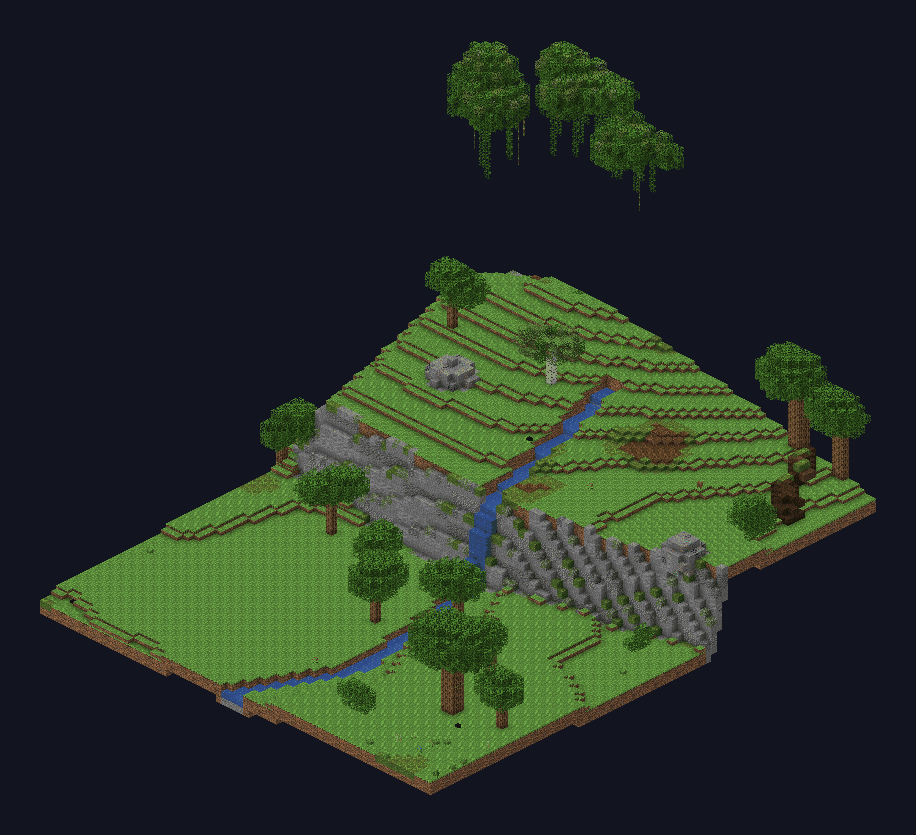
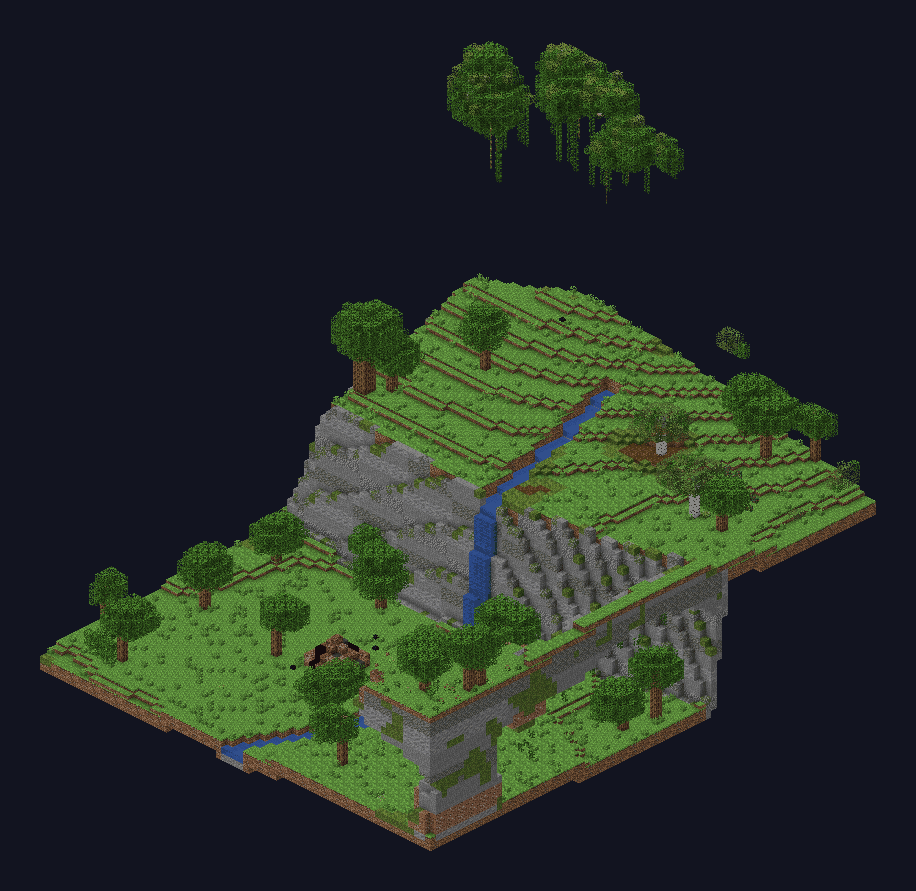
Proposals: field500 - Gaur Plain style rock pillars and natural bridges, taller scarps

Changed region(s): [[0.0306, 0.3114, 0.9782, 0.9653], [0.4891, 0.0311, 0.7642, 0.218]]

diff --git a/scripts/world_prototype/field500.py b/scripts/world_prototype/field500.py
@@ -58,7 +58,7 @@ POND = (105, 428)
 CLIFF_X = 455
 BOULDERS = (282, 428)
 MEADOW = (330, 258)
-LOW, MID, HIGH = 64, 74, 85
+LOW, MID, HIGH = 64, 75, 94
 
 # ---------------- terrain ----------------
 xs_ = np.arange(B, dtype=np.float32)
@@ -614,6 +614,122 @@ for x in range(B):
             if road[z, x] and road_d[z, x] > 2.4: put(x, at(x, z) + 1, z, "spruce_planks", shape="fence")
 
 
+# ---------------- Gaur-style rock pillars: narrow waists, wide overhanging grassy tops, joined by rock bridges ----------------
+UPPER = np.full((B, B), -1, np.int32)          # walkable heights above the ground layer (pillar tops, bridges)
+ROCK = ["stone", "andesite", "tuff", "stone", "andesite", "granite", "stone", "tuff"]
+
+
+def mesa(cx, cz, top_y, rb, rt, seed, needle=False):
+    base = min(at(cx + dx, cz + dz) for dx in (-int(rb), 0, int(rb)) for dz in (-int(rb), 0, int(rb))) - 2
+    Hm = top_y - base
+    for y in range(base, top_y + 1):
+        f = (y - base) / Hm
+        if f < .45: r = rb + (.6 * rb - rb) * (f / .45)
+        elif f < .82: r = .6 * rb + (rt - .6 * rb) * ((f - .45) / .37) ** 1.7
+        else: r = rt * (1 - max(0, f - .97) * 3)
+        ri = int(r * 1.25) + 2
+        for dx in range(-ri, ri + 1):
+            for dz in range(-ri, ri + 1):
+                a = math.atan2(dz, dx)
+                rr = r * (1 + .22 * (noise3(math.cos(a) * 3 + seed, y * .25, math.sin(a) * 3, seed, 1.0) - .5) * 2)
+                d = math.hypot(dx, dz)
+                if d > rr: continue
+                x, z = cx + dx, cz + dz
+                if not (0 <= x < B and 0 <= z < B) or y <= at(x, z) - 1: continue
+                if needle:
+                    put(x, y, z, "moss_block" if y >= top_y - 1 else ROCK[(y // 3 + seed) % len(ROCK)])
+                elif y == top_y:
+                    put(x, y, z, "grass_block_top", "grass_block_side"); UPPER[z, x] = top_y
+                elif y >= top_y - 2 and d > rr - 1.2:
+                    put(x, y, z, "dirt" if y == top_y - 1 else "rooted_dirt")
+                else:
+                    mat = ROCK[(y // 3 + seed) % len(ROCK)]
+                    if noise3(x, y, z, seed + 7, 2.5) > .7: mat = "moss_block"
+                    put(x, y, z, mat)
+    for _ in range(int(rt * 3)):                                    # vines and roots hanging from the overhang
+        a = R.random() * math.tau
+        x, z = int(round(cx + math.cos(a) * (rt - .5))), int(round(cz + math.sin(a) * (rt - .5)))
+        for k2 in range(R.randint(3, 12)):
+            p = (x, top_y - 1 - k2, z)
+            if p in w.b and k2 > 0: break
+            if k2 > 0: put(*p, "vine", shape="shut_s")
+    if needle:
+        mark(cx - int(rb) - 3, cz - int(rb) - 3, cx + int(rb) + 3, cz + int(rb) + 3)
+        return
+    for _ in range(int(rt * .35) + 1):                               # trees and bushes on top
+        a = R.random() * math.tau; rr = rt * .6 * math.sqrt(R.random())
+        x, z = int(round(cx + math.cos(a) * rr)), int(round(cz + math.sin(a) * rr))
+        th = R.randint(4, 7)
+        for y in range(top_y + 1, top_y + th + 1): put(x, y, z, *LOG("oak_log"))
+        for dx in range(-3, 4):
+            for dz in range(-3, 4):
+                for dy in range(-2, 2):
+                    if dx * dx + dz * dz + dy * dy * 2 <= 9 + R.random() * 3 and (x + dx, top_y + th + dy, z + dz) not in w.b:
+                        put(x + dx, top_y + th + dy, z + dz, "oak_leaves")
+    for _ in range(int(rt * rt * .5)):
+        a = R.random() * math.tau; rr = rt * .85 * math.sqrt(R.random())
+        x, z = int(round(cx + math.cos(a) * rr)), int(round(cz + math.sin(a) * rr))
+        if (x, top_y + 1, z) not in w.b: put(x, top_y + 1, z, R.choice(["short_grass", "short_grass", "poppy", "dandelion", "fern"]), shape="plant")
+    mark(cx - int(rb) - 3, cz - int(rb) - 3, cx + int(rb) + 3, cz + int(rb) + 3)
+
+
+def rock_bridge(p0, p1, rise=3, width=1.6):
+    """A natural rock bridge with a grassy walkable deck; the deck height goes into UPPER."""
+    L = math.dist((p0[0], p0[2]), (p1[0], p1[2])); n = int(L * 2)
+    for i in range(n + 1):
+        t = i / n
+        cx, cz = p0[0] + (p1[0] - p0[0]) * t, p0[2] + (p1[2] - p0[2]) * t
+        deck = int(round(p0[1] + (p1[1] - p0[1]) * t + rise * math.sin(math.pi * t)))
+        under = 2 + 5 * (1 - math.sin(math.pi * t)) + 2 * noise3(cx, 0, cz, 151, 3)       # thicker at the ends
+        wid = width + .8 * noise3(cx, 1, cz, 152, 4)
+        for dx in range(-4, 5):
+            for dz in range(-4, 5):
+                x, z = int(round(cx + dx)), int(round(cz + dz))
+                if not (0 <= x < B and 0 <= z < B): continue
+                d = math.hypot(x - cx, z - cz)
+                if d > wid + 1.2: continue
+                if d <= wid:
+                    put(x, deck, z, "grass_block_top", "grass_block_side"); UPPER[z, x] = max(UPPER[z, x], deck)
+                    if w.b.get((x, deck + 1, z), ("", "", ""))[1] in ("vine",): w.b.pop((x, deck + 1, z), None)
+                for y in range(int(deck - under * (1 - (d / (wid + 1.2)) ** 2)), deck):
+                    if y > at(x, z): put(x, y, z, ROCK[(y // 3) % len(ROCK)] if noise3(x, y, z, 153, 2) < .7 else "moss_block")
+        if i % 7 == 3:
+            for k2 in range(R.randint(2, 7)):
+                vx, vz = int(round(cx + R.uniform(-1, 1))), int(round(cz + R.uniform(-1, 1)))
+                p = (vx, deck - int(under) - k2, vz)
+                if p not in w.b and p[1] > at(vx, vz): put(*p, "vine", shape="shut_s")
+
+
+# three chained pillars south of the high plateau; the first is reached by a bridge from the plateau's edge
+ex, ez = 300, int(B2[300]) - 7
+EDGE_Y = at(ex, ez)
+PILLARS = [(300, 226, EDGE_Y + 9, 9, 18, 3), (304, 312, EDGE_Y + 14, 9.5, 19, 5), (362, 388, EDGE_Y + 11, 10, 21, 1)]
+for (px, pz, ty, rb, rt, sd) in PILLARS:
+    mesa(px, pz, ty, rb, rt, sd)
+rock_bridge((ex, EDGE_Y, ez - 2), (PILLARS[0][0], PILLARS[0][2], PILLARS[0][1] - 15), rise=1)
+rock_bridge((PILLARS[0][0], PILLARS[0][2], PILLARS[0][1] + 14), (PILLARS[1][0], PILLARS[1][2], PILLARS[1][1] - 15), rise=4)
+rock_bridge((PILLARS[1][0] + 10, PILLARS[1][2], PILLARS[1][1] + 12), (PILLARS[2][0] - 12, PILLARS[2][2], PILLARS[2][1] - 13), rise=4)
+for x in range(ex - 3, ex + 4):                                     # the plateau edge where the first bridge starts
+    for z in range(ez - 4, ez + 1):
+        UPPER[z, x] = max(UPPER[z, x], at(x, z))
+# rewards on the tops: a lookout cairn, a rare herb, a treasure barrel at the far end
+for (px, pz, ty, rb, rt, sd), what in zip(PILLARS, ("cairn", "herb", "treasure")):
+    if what == "cairn":
+        for y in range(ty + 1, ty + 4): put(px + 3, y, pz, R.choice(["mossy_cobblestone", "cobblestone"]))
+        put(px + 3, ty + 4, pz, "lantern", shape="lantern")
+    elif what == "herb":
+        for _ in range(8):
+            put(px + R.randint(-3, 3), ty + 1, pz + R.randint(-3, 3), "firefly_bush", shape="plant")
+    else:
+        put(px, ty + 1, pz, "barrel_top", "barrel_side"); put(px + 1, ty + 1, pz, "lantern", shape="lantern")
+    CONTENT.append((px, pz, "pillar"))
+
+# thin scenery spires on the plains (Gaur-style), out of the way of roads and places
+for (sx, sz, h2, r2) in ((160, 455, 34, 3.5), (450, 300, 30, 3.0), (40, 360, 26, 3.0), (470, 470, 32, 3.5)):
+    if anyway[sz, sx] < 10 or used[sz, sx]: continue
+    mesa(sx, sz, at(sx, sz) + h2, r2 * 1.4, r2 * .7, 2, needle=True)   # a rock needle: scenery, nothing to stand on
+
+
 # ---------------- main places count as content ----------------
 for p in (TREE, BOSS, FUNGAL, WOLF, TOWER, REST, BOULDERS, MEADOW, POND):
     CONTENT.append((p[0], p[1], "place"))
@@ -743,6 +859,13 @@ for z in range(4, B - 4):
             else: oak(x, z, "oak", big=R.random() < .08)
 scatter_plants(70, 280, 70, .05, ["fern", "short_grass", "brown_mushroom", "leaf_litter"])
 scatter_plants(250, 250, 240, .006, ["poppy", "dandelion", "short_grass", "short_grass"])
+for z in range(2, B - 2):
+    for x in range(2, B - 2):
+        if anyway[z, x] < 3 or lake[z, x] or stream[z, x] or R.random() > .16: continue
+        y = at(x, z) + 1
+        if (x, y, z) in w.b: continue
+        t2 = w.b.get((x, y - 1, z))
+        if t2 and t2[1] == "grass_block_top": put(x, y, z, "short_grass", shape="plant")
 
 
 
@@ -767,6 +890,20 @@ while q:
         nz, nx = z + dz, x + dx
         if 0 <= nz < B and 0 <= nx < B and not seen[nz, nx] and not block[nz, nx] and abs(int(hi[nz, nx]) - int(hi[z, x])) <= 1:
             seen[nz, nx] = True; q.append((nz, nx))
+# second layer: pillar tops and bridges, entered from reachable ground with a step of at most 1
+up_seen = np.zeros((B, B), bool)
+q = deque()
+for z in range(B):
+    for x in range(B):
+        if UPPER[z, x] >= 0 and seen[z, x] and abs(int(UPPER[z, x]) - int(hi[z, x])) <= 1:
+            up_seen[z, x] = True; q.append((z, x))
+while q:
+    z, x = q.popleft()
+    for dz, dx in ((1, 0), (-1, 0), (0, 1), (0, -1)):
+        nz, nx = z + dz, x + dx
+        if 0 <= nz < B and 0 <= nx < B and not up_seen[nz, nx] and UPPER[nz, nx] >= 0 and abs(int(UPPER[nz, nx]) - int(UPPER[z, x])) <= 1:
+            up_seen[nz, nx] = True; q.append((nz, nx))
+UP_STATS = (int((UPPER >= 0).sum()), int(up_seen.sum()))
 land = ~lake & ~block
 scenic = slope > 1.3
 unreach = land & ~seen & ~scenic
@@ -781,7 +918,8 @@ for (tz, tx) in zip(ys[::3], xs2[::3]):
     tdist = np.minimum(tdist, np.hypot(xx - tx, zz - tz))
 empty = land & seen & (cdist > 40) & (tdist > 14) & (anyway > 4)
 STATS = {"reachable": float((land & seen).sum() / land.sum()), "unreachable_flat": int(unreach.sum()),
-         "scenic": float((scenic & land).sum() / land.sum()), "empty": float(empty.sum() / land.sum())}
+         "scenic": float((scenic & land).sum() / land.sum()), "empty": float(empty.sum() / land.sum()),
+         "upper_cells": UP_STATS[0], "upper_reached": UP_STATS[1]}
 print("checks", STATS)
 img = np.zeros((B, B, 3), np.uint8)
 shade = np.clip((hi - 55) / 40, 0, 1)
@@ -792,20 +930,22 @@ img[anyway < 2.5] = (236, 214, 150)
 img[logmask] = (40, 90, 40)
 img[empty] = (240, 200, 60)
 img[unreach] = (230, 50, 50)
+img[(UPPER >= 0) & up_seen] = (150, 210, 255)
+img[(UPPER >= 0) & ~up_seen] = (230, 50, 50)
 mapimg = Image.fromarray(img).resize((1000, 1000), Image.NEAREST)
 from PIL import ImageDraw, ImageFont
 dd = ImageDraw.Draw(mapimg)
 ff = ImageFont.truetype("/usr/share/fonts/opentype/noto/NotoSansCJK-Bold.ttc", 15)
 for (cx, cz, kd) in CONTENT:
     dd.ellipse((cx * 2 - 4, cz * 2 - 4, cx * 2 + 4, cz * 2 + 4), fill=(255, 255, 255), outline=(0, 0, 0))
-dd.rectangle((10, 10, 360, 120), fill=(16, 18, 28))
+dd.rectangle((10, 10, 360, 140), fill=(16, 18, 28))
 for i2, (col, t2) in enumerate((((236, 214, 150), "道"), ((128, 124, 118), "崖（見るだけ）"), ((240, 200, 60), "空白（中身から40以上）"),
-                                ((230, 50, 50), "行けない平地"), ((255, 255, 255), "中身のある場所"))):
+                                ((230, 50, 50), "行けない場所"), ((150, 210, 255), "柱の上と岩の橋（行ける）"), ((255, 255, 255), "中身のある場所"))):
     dd.rectangle((18, 18 + i2 * 20, 32, 32 + i2 * 20), fill=col)
     dd.text((40, 16 + i2 * 20), t2, fill=(255, 255, 255), font=ff)
 mapimg.save("field500-check.png")
 
-LABELS = [(TREE, "大樹（根の洞＝ダンジョン入口）", (140, 230, 140)), (BOSS, "ワールドボス：根の主", (255, 90, 90)),
+LABELS = [((304, 312), "岩の柱と岩の橋（高台から渡れる）", (150, 210, 255)), (TREE, "大樹（根の洞＝ダンジョン入口）", (140, 230, 140)), (BOSS, "ワールドボス：根の主", (255, 90, 90)),
           (FUNGAL, "狩り場：キノコの窪地", (255, 150, 120)), (WOLF, "狩り場：狼の根穴", (255, 150, 120)),
           (TOWER, "狩り場＋展望：根に飲まれた石塔", (255, 150, 120)), (REST, "休憩所（転移石）", (255, 255, 255)),
           ((455, 175), "採鉱：根の割れた崖", (200, 200, 220)), (BOULDERS, "採石：岩の原", (200, 200, 200)),

diff --git a/scripts/world_prototype/field500_render.py b/scripts/world_prototype/field500_render.py
@@ -8,7 +8,7 @@ b, hi, LABELS = pickle.load(open("field500.pkl", "rb"))
 SHOTS = {"tree": (190, 100, 290, 205, 10), "boss": (352, 52, 438, 138, 10), "fungal": (40, 190, 150, 285, 10),
          "wolf": (380, 355, 450, 430, 13), "tower": (60, 45, 112, 100, 14), "cliff": (420, 120, 499, 190, 12),
          "boulders": (235, 390, 335, 465, 10), "meadow": (270, 195, 395, 305, 8), "pond": (55, 385, 165, 460, 10),
-         "rest": (165, 235, 235, 295, 14), "ramp": (120, 300, 220, 380, 9), "falls": (230, 140, 300, 220, 11), "gap": (140, 300, 230, 360, 12), "sap": (150, 190, 186, 226, 18), "arch": (240, 200, 300, 270, 12)}
+         "rest": (165, 235, 235, 295, 14), "ramp": (120, 300, 220, 380, 9), "falls": (230, 140, 300, 220, 11), "gap": (140, 300, 230, 360, 12), "sap": (150, 190, 186, 226, 18), "arch": (240, 200, 300, 270, 12), "pillars": (250, 150, 400, 400, 6), "pillar1": (270, 160, 340, 250, 10)}
 
 
 def render(sub, W):
